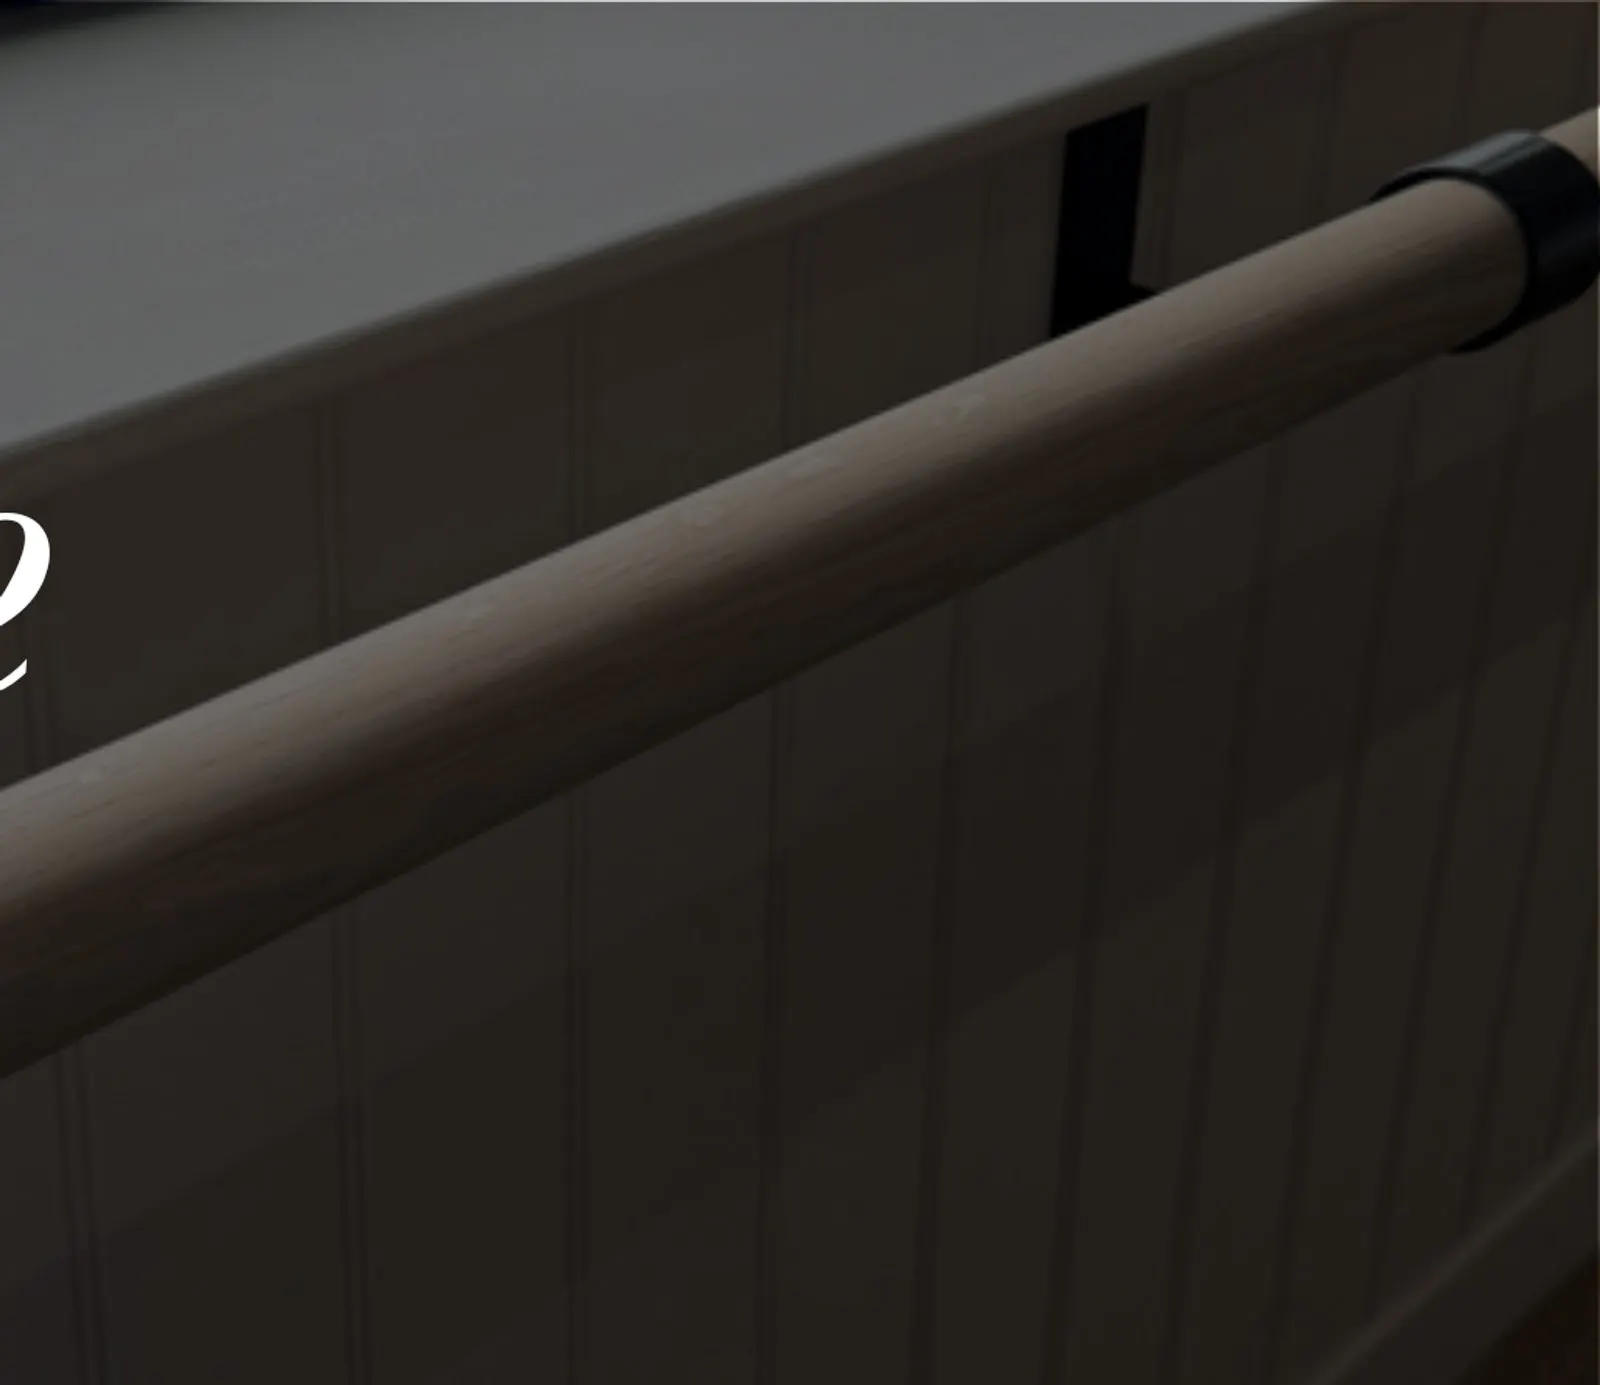
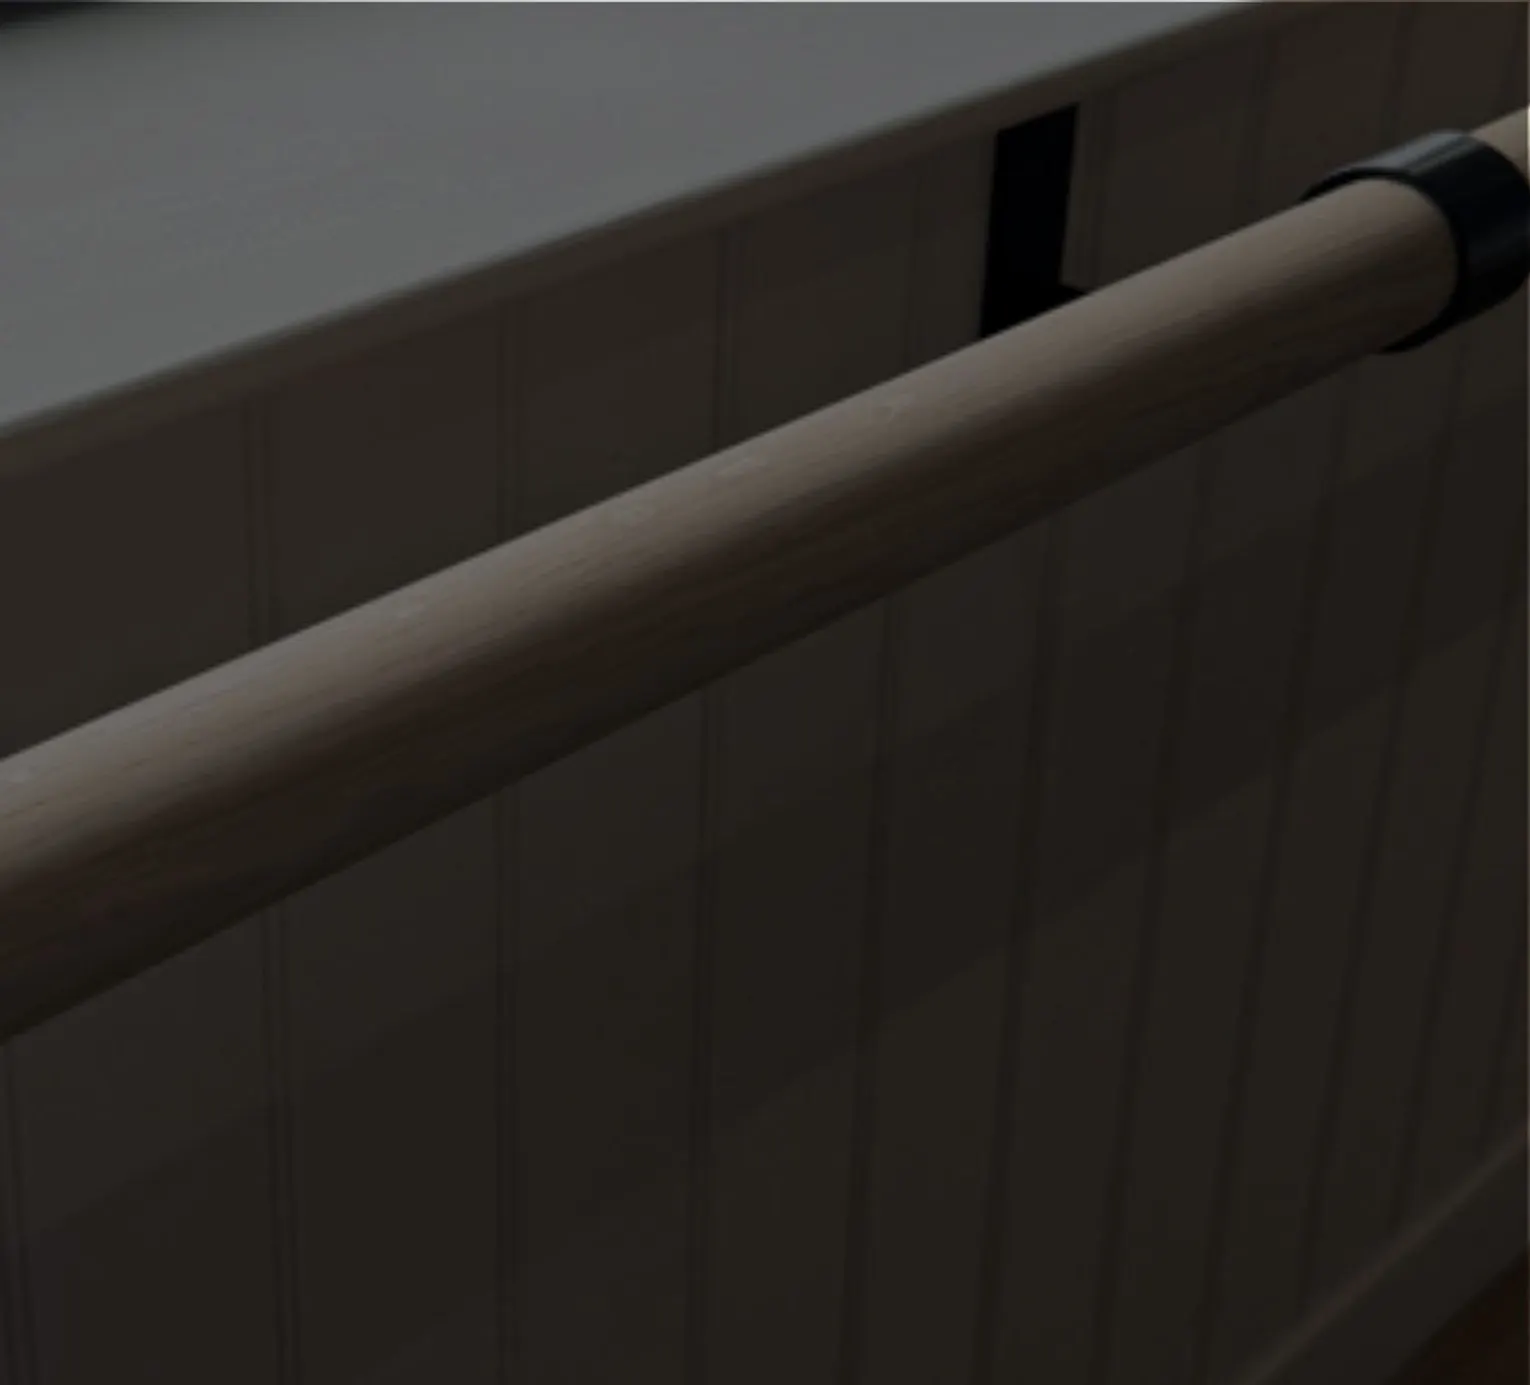
No visible breadcrumbs anywhere; course heroes show their own apparatus
Breadcrumbs now emit only the BreadcrumbList schema, so no trail appears in any hero or page header.
Reformer hero is the Reformer studio (it showed the Cadillac). Chair shows the Wunda Chairs (it showed the Ladder Barrel).
Cadillac shows the Cadillac by the windows. Barrels keeps the Ladder Barrel photo with a correct alt.
Barre hero is re-cropped to drop the stray lettering from the old graphic.
CPD heroes and alts corrected: Jumpboard the Reformer studio, Strength and Endurance the Reformers in use, Pain Science the seminar room.
About gallery alt for the Cadillac photo corrected. Revision document updated to match.

Claude-Session: https://claude.ai/code/session_018rwGJHFvr5bjj45YYbZQZY

diff --git a/claude/2026-10-08_tpp-review-doc.md b/claude/2026-10-08_tpp-review-doc.md
@@ -28,7 +28,8 @@ Your old website copy was the starting point everywhere. Your notes on the Mat p
 | The training centre | Mentioned in passing | "The UK's first purpose-built Pilates education centre", on the homepage, the About page, the course pages and the comparison table, with your old line that it is "fully dedicated to your teacher training, unlike in-house trainings that work around a studio timetable" |
 | Jobs board | "List a role, free", "listed free by studios" | "List a role". "Listings are paid: we review every one within 2 working days, send you a payment link on approval, and your role runs for 60 days." No price shown until you confirm it. |
 | Full spectrum | "a method that covers every tradition" | "training across the full spectrum of Pilates: from contrology and classical through to a contemporary practice" |
-| Breadcrumbs and eyebrows | Many pages showed both a breadcrumb trail and a small label saying the same thing above the heading | One or the other, never both |
+| Breadcrumbs | A breadcrumb trail at the top of most pages, often repeating the small label above the heading | No breadcrumb trail anywhere. Search engines still get the page hierarchy behind the scenes. |
+| Course photos | Some apparatus pages used the wrong apparatus: the Reformer page showed the Cadillac, the Chair page showed the Ladder Barrel | Each page shows its own apparatus from your photos: Mat the lounge and manual, Reformer the Reformer studio, Barre the barre, Chair the Wunda Chairs, Cadillac the Cadillac by the windows, Barrels the Ladder Barrel. Please check these, since you know the apparatus and we do not. |
 | Free guide forms | "Check your inbox" | "Thanks. We will email the guide to you." The guides do not exist yet, so the forms collect addresses and nothing goes out until you have signed the copy off. |
 
 ## 2. Menu and header
@@ -113,14 +114,18 @@ Same structure and rules as Mat. Not yet reviewed by you.
 - Repertoire from your old page: "ALL of the Classical exercises, including transitions, from the beginner and intermediate tiers" and "Contemporary exercises, variations and modifications".
 - Same teaching skills list as Mat, with "Cueing on the apparatus".
 - This is for you if: your four lines plus "You have, or can arrange, access to a Reformer for your practice hours".
-- Hero photo is the Reformers by the window. Card shows your Reformer graphic.
+- Hero photo is the Reformer studio, the same scene as your old Reformer graphic. Card shows the graphic.
 - Accreditation: ITTAP via PMA. CIMSPA is not shown until you confirm it should be.
 
 **Barre**
 - First line: "Certify on the only Barre teacher training in the UK accredited by the Barre Fitness Alliance: the most in-depth training and the truest to the original method."
 - Summary, what's included and what you'll learn are lifted from your old Barre page (Lotte Berk origins, classical versus contemporary Barre, movement patterns at the barre and on the floor, the signature exercises and the burn, programming and transitions, pre and postnatal basics).
 - Accreditation: Barre Fitness Alliance only. The BFA badge appears on this course alone.
-- Hero image is the barre rail from your old Barre graphic; the card shows the graphic.
+- Hero image is the barre from your old Barre graphic, with the lettering cropped off; the card shows the graphic.
+
+**Apparatus and CPD pages**
+- Chair: the row of Wunda Chairs. Cadillac: the Cadillac by the windows. Barrels: the Ladder Barrel. Advanced Reformer: teachers training on the Reformers. All from your photos, matched to your old graphics.
+- CPD pages use centre photos rather than your portrait cover graphics, because the lettering on those would sit under the page heading. Jumpboard shows the Reformer studio, Strength and Endurance the Reformers in use, Prenatal the lounge, Pain Science the seminar room. Swap any you would rather see differently.
 
 ## 7. Become a Pilates instructor (the hub page)
 
